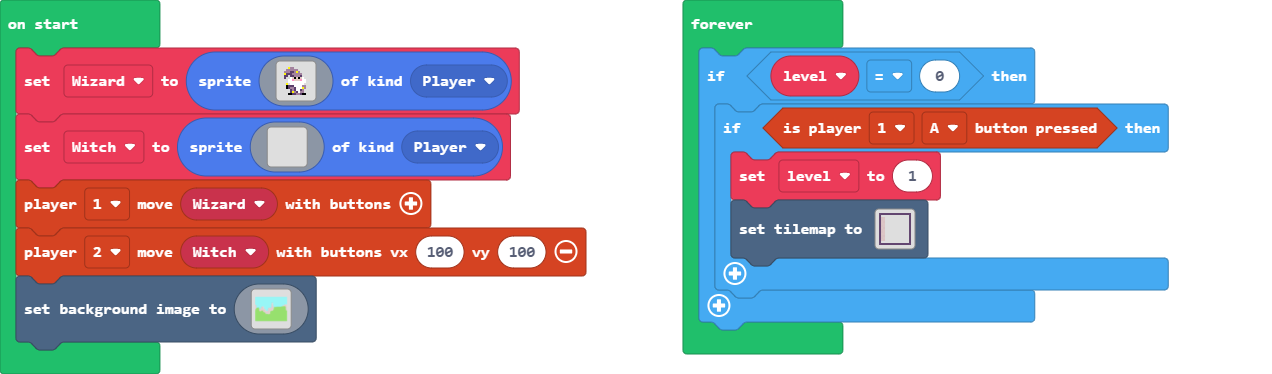
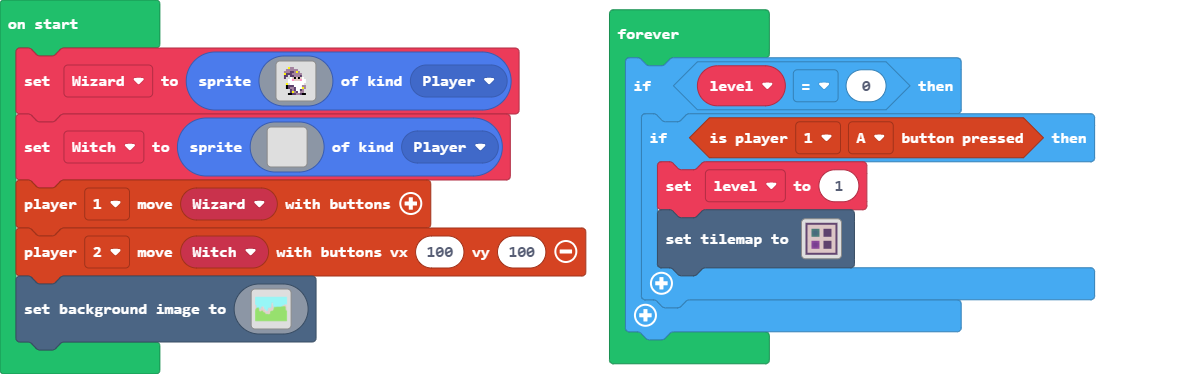
Update main.blocks, main.ts, tilemap.g.jres, tilemap.g.ts

diff --git a/tilemap.g.ts b/tilemap.g.ts
@@ -31,24 +31,24 @@ namespace myTiles {
 ....................
 `, [myTiles.transparency16,sprites.dungeon.darkGroundNorthWest0,sprites.dungeon.darkGroundNorth,sprites.dungeon.darkGroundNorthEast0,sprites.dungeon.darkGroundEast,sprites.dungeon.darkGroundSouth,sprites.dungeon.darkGroundSouthWest0,sprites.dungeon.darkGroundWest,sprites.dungeon.darkGroundCenter,myTiles.tile1], TileScale.Sixteen);
             case "level2":
[1 lines of base64/hex data omitted]
-. . . . . . . . . . . . . . . . 
-. . . . . . . . . . . . . . . . 
-. . . . . . . . . . . . . . . . 
-. . . . . . . . . . . . . . . . 
-. . . . . . . . . . . . . . . . 
-. . . . . . . . . . . . . . . . 
-. . . . . . . . . . . . . . . . 
-. . . . . . . . . . . . . . . . 
-. . . . . . . . . . . . . . . . 
-. . . . . . . . . . . . . . . . 
-. . . . . . . . . . . . . . . . 
-. . . . . . . . . . . . . . . . 
-. . . . . . . . . . . . . . . . 
-. . . . . . . . . . . . . . . . 
-. . . . . . . . . . . . . . . . 
-. . . . . . . . . . . . . . . . 
-`, [myTiles.transparency16,sprites.dungeon.floorLight0,sprites.dungeon.floorLight1,sprites.dungeon.floorLight4,sprites.dungeon.darkGroundNorthWest0,sprites.dungeon.darkGroundNorth,sprites.dungeon.darkGroundNorthEast0,sprites.dungeon.darkGroundEast,sprites.dungeon.darkGroundSouthEast0,sprites.dungeon.darkGroundSouth,sprites.dungeon.darkGroundSouthWest0,sprites.dungeon.darkGroundWest], TileScale.Sixteen);
[1 lines of base64/hex data omitted]
+2 2 2 2 2 2 2 2 2 2 2 2 2 2 2 2 
+2 . . . . . . . . . . . . . . 2 
+2 . . . . . . . . . . . . . . 2 
+2 . . . . . . . . . . . . . . 2 
+2 . . . . . . . . . . . . . . 2 
+2 . . . . . . . . . . . . . . 2 
+2 . . . . . . . . . . . . . . 2 
+2 . . . . . . . . . . . . . . 2 
+2 . . . . . . . . . . . . . . 2 
+2 . . . . . . . . . . . . . . 2 
+2 . . . . . . . . . . . . . . 2 
+2 . . . . . . . . . . . . . . 2 
+2 . . . . . . . . . . . . . . 2 
+2 . . . . . . . . . . . . . . 2 
+2 . . . . . . . . . . . . . . 2 
+2 2 2 2 2 2 2 2 2 2 2 2 2 2 2 2 
+`, [myTiles.transparency16,sprites.dungeon.floorLight0,sprites.dungeon.floorLight1,sprites.dungeon.floorLight4,sprites.dungeon.darkGroundNorthWest0,sprites.dungeon.darkGroundNorth,sprites.dungeon.darkGroundNorthEast0,sprites.dungeon.darkGroundEast,sprites.dungeon.darkGroundSouthEast0,sprites.dungeon.darkGroundSouth,sprites.dungeon.darkGroundSouthWest0,sprites.dungeon.darkGroundWest,sprites.dungeon.darkGroundCenter,sprites.dungeon.greenOuterNorthWest,sprites.dungeon.greenOuterNorth0,sprites.dungeon.greenOuterNorth1,sprites.dungeon.greenOuterNorthEast,sprites.dungeon.greenOuterEast0,sprites.dungeon.greenOuterEast1,sprites.dungeon.greenOuterSouthWest,sprites.dungeon.greenOuterSouth0,sprites.dungeon.greenOuterSouthEast,sprites.dungeon.greenOuterWest1,sprites.dungeon.greenOuterWest0,sprites.dungeon.greenInnerNorthWest,sprites.dungeon.greenInnerNorthEast,sprites.dungeon.greenInnerSouthWest,sprites.dungeon.greenInnerSouthEast,sprites.dungeon.purpleOuterNorth0,sprites.dungeon.purpleOuterNorthEast,sprites.dungeon.purpleOuterNorthWest,sprites.dungeon.purpleOuterWest0,sprites.dungeon.purpleOuterWest1,sprites.dungeon.purpleOuterSouthEast,sprites.dungeon.purpleOuterSouth0,sprites.dungeon.purpleOuterSouth1,sprites.dungeon.purpleOuterSouthWest,sprites.dungeon.purpleOuterEast0,sprites.dungeon.purpleOuterEast1,sprites.dungeon.purpleInnerNorthWest,sprites.dungeon.purpleInnerNorthEast,sprites.dungeon.purpleInnerSouthWest,sprites.dungeon.purpleInnerSouthEast], TileScale.Sixteen);
         }
         return null;
     })

diff --git a/main.ts b/main.ts
@@ -19,20 +19,20 @@ let Wizard = sprites.create(img`
     `, SpriteKind.Player)
 let Witch = sprites.create(img`
     . . . . . . . . . . . . . . . . 
-    . . . . . . . . . . . . . . . . 
-    . . . . . . . . . . . . . . . . 
-    . . . . . . . . . . . . . . . . 
-    . . . . . . . . . . . . . . . . 
-    . . . . . . . . . . . . . . . . 
-    . . . . . . . . . . . . . . . . 
-    . . . . . . . . . . . . . . . . 
-    . . . . . . . . . . . . . . . . 
-    . . . . . . . . . . . . . . . . 
-    . . . . . . . . . . . . . . . . 
-    . . . . . . . . . . . . . . . . 
-    . . . . . . . . . . . . . . . . 
-    . . . . . . . . . . . . . . . . 
-    . . . . . . . . . . . . . . . . 
+    . . . . . . . . f . . . . . . . 
+    . . . . . . . f f f . . . . . . 
+    . . . . . . . f f f . . . . . . 
+    . . . . . . f f f f f . . . . . 
+    . . . . . f 7 f 7 7 f 7 . . . . 
+    . . . f f f f f f f f f f f . . 
+    . . . . . 1 d f d f d 1 . . . . 
+    . . . . 1 1 3 d d d 3 1 1 . . . 
+    . . . 7 1 1 1 f f f 1 1 1 . . . 
+    . . . e f 1 1 f f f 1 1 f 1 . . 
+    . . . e f f 1 f f f 1 f f 1 . . 
+    . . . . 1 7 f f 7 7 f 7 1 . . . 
+    . . . . . f f f f f f f . . . . 
+    . . . . e e f f f f f e e . . . 
     . . . . . . . . . . . . . . . . 
     `, SpriteKind.Player)
 controller.player1.moveSprite(Wizard)
